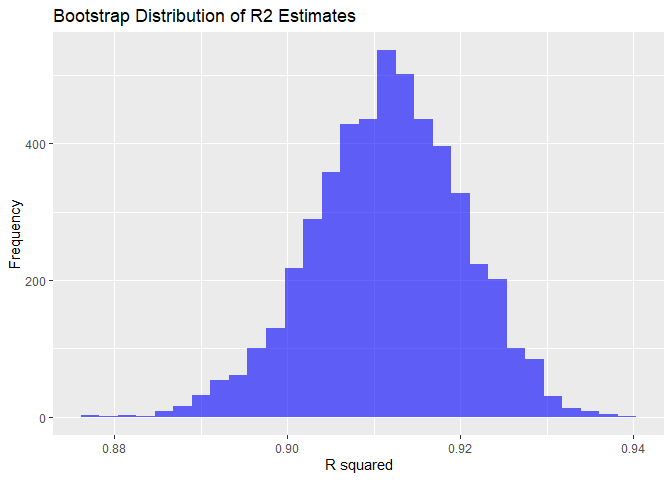
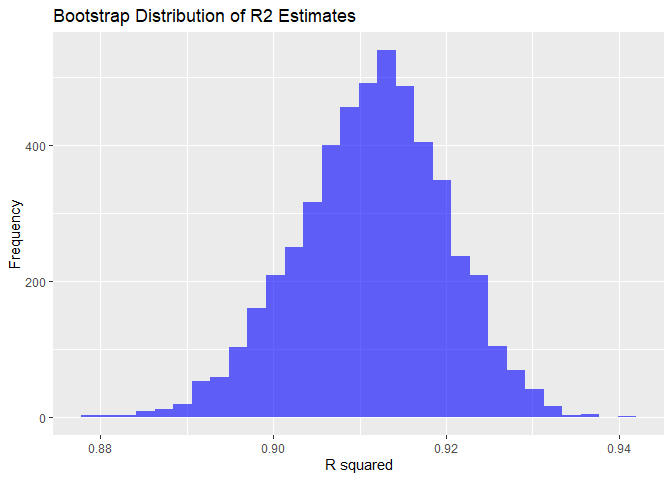
edited code for better look

diff --git a/p8105_hw6_zw2975.md b/p8105_hw6_zw2975.md
@@ -37,8 +37,7 @@ boot_sample = function(df) {
 boot_straps = 
   tibble(strap_number = 1:n_sample) |> 
   mutate(
-    strap_sample = map(strap_number, ~ boot_sample(df = weather_df))
-  )
+    strap_sample = map(strap_number, ~ boot_sample(df = weather_df)))
 
 # linear regression fit
 extract = function(df) {
@@ -52,8 +51,7 @@ extract = function(df) {
 # Apply the function to each bootstrap sample
 boot_results = boot_straps |> 
   mutate(
-    results = purrr::map(strap_sample, extract)
-  ) |> 
+    results = purrr::map(strap_sample, extract)) |> 
   unnest(results)
 ```
 
@@ -64,8 +62,7 @@ ggplot(boot_results, aes(x = r_squared)) +
   labs(
     title = "Bootstrap Distribution of R2 Estimates",
     x = "R squared",
-    y = "Frequency"
-  )
+    y = "Frequency")
 ```
 
 ![](p8105_hw6_zw2975_files/figure-gfm/plot%20estimates-1.png)<!-- -->
@@ -77,8 +74,7 @@ ggplot(boot_results, aes(x = log_beta)) +
   labs(
     title = "Distribution of log(β0 * β1) estimates",
     x = "log(β0 * β1)",
-    y = "Frequency"
-  ) 
+    y = "Frequency") 
 ```
 
 ![](p8105_hw6_zw2975_files/figure-gfm/plot%20estimates-2.png)<!-- -->
@@ -104,14 +100,14 @@ print(ci_r_squared)
 ```
 
     ##      2.5%     97.5% 
-    ## 0.8937338 0.9278164
+    ## 0.8937557 0.9273171
 
 ``` r
 print(ci_log_beta)
 ```
 
     ##     2.5%    97.5% 
-    ## 1.964733 2.056260
+    ## 1.965450 2.060414
 
 ## Problem 2
 
@@ -171,8 +167,7 @@ city_results = homic |>
                         filter(term == "victim_sexMale") |>
                         mutate(odds_ratio = exp(estimate),
                                conf.low = exp(conf.low),
-                               conf.high = exp(conf.high)))
-  ) |>
+                               conf.high = exp(conf.high)))) |>
   unnest(odds_ratios) |>
   select(city_state, odds_ratio, conf.low, conf.high)
 ```
@@ -183,12 +178,10 @@ city_results = homic |>
 ggplot(city_results, aes(x = reorder(city_state, odds_ratio), y = odds_ratio)) +
   geom_point() +
   geom_errorbar(aes(ymin = conf.low, ymax = conf.high), width = 0.2, color = "gray") + 
-  labs(
-    title = "Adjusted Odds Ratios and CIs for Resolved Homicides by City",
+  labs(title = "Adjusted Odds Ratios and CIs for Resolved Homicides by City",
     y = "Odds Ratio and CIs (male compared to female)",
     x = "City") +
-  theme(
-    axis.text.x = element_text(angle = 90, hjust = 1)) # Rotate city names to save space
+  theme(axis.text.x = element_text(angle = 90, hjust = 1)) # Rotate city names to save space
 ```
 
 ![](p8105_hw6_zw2975_files/figure-gfm/plot%20city%20results-1.png)<!-- -->
@@ -234,8 +227,7 @@ bw = bw |>
 ggplot(bw, aes(x = fitted, y = residuals)) +
   geom_point(alpha = 0.3) +
   geom_hline(yintercept = 0, linetype = "dashed", color = "red") +
-  labs(
-    title = "Residuals vs. Fitted Values",
+  labs(title = "Residuals vs. Fitted Values",
     x = "Fitted Values",
     y = "Residuals")
 ```
@@ -294,7 +286,7 @@ print(rmse_summary)
     ## # A tibble: 1 × 6
     ##   mean_rmse_bw mean_rmse_m1 mean_rmse_m2 sd_rmse_bw sd_rmse_m1 sd_rmse_m2
     ##          <dbl>        <dbl>        <dbl>      <dbl>      <dbl>      <dbl>
-    ## 1         426.         322.         282.       10.6       7.47       6.55
+    ## 1         424.         321.         282.       10.6       8.04       8.32
 
 ###### Comment
 
